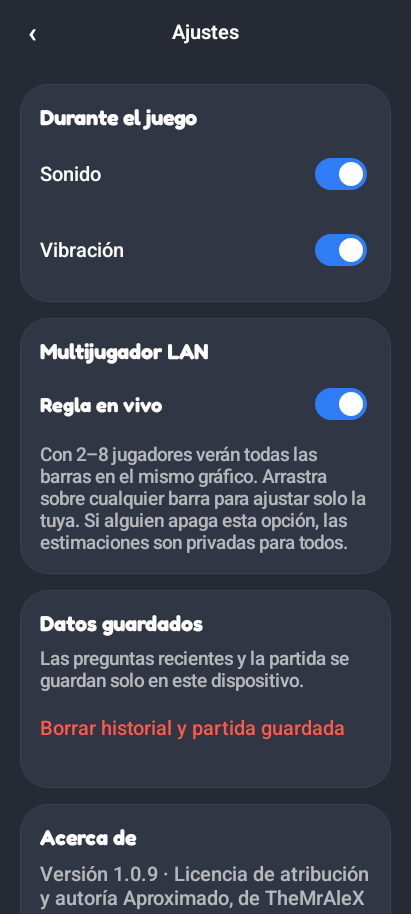
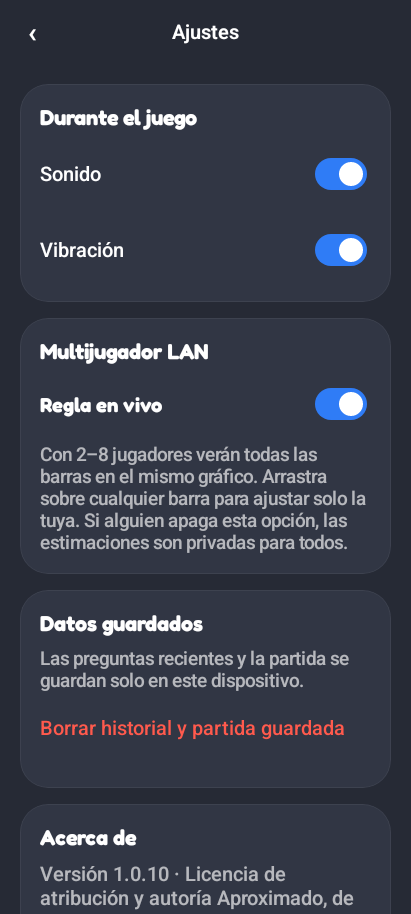
feat(release): build ARMv7 and universal APKs

Changed region(s): [[0.0876, 0.9497, 0.9051, 1.0]]

diff --git a/scripts/build_local_release.py b/scripts/build_local_release.py
@@ -11,6 +11,7 @@ import secrets
 import shutil
 import subprocess
 import tempfile
+import zipfile
 
 ROOT=Path(__file__).resolve().parents[1]
 def main():
@@ -30,12 +31,21 @@ def main():
         subprocess.run(['./gradlew',':core:test',':app:lintRelease',':app:assembleRelease','--console=plain'],cwd=ROOT,env=environment,check=True)
         output=ROOT/'dist';output.mkdir(exist_ok=True)
         version=re.search(r'versionName\s*=\s*"([^"]+)"',(ROOT/'app/build.gradle.kts').read_text()).group(1)
-        apk=output/f'Aproximado-v{version}-arm64-v8a.apk'
-        shutil.copyfile(ROOT/'app/build/outputs/apk/release/app-release.apk',apk)
+        variants={
+            'arm64-v8a': ('app-arm64-v8a-release.apk', {'arm64-v8a'}),
+            'armeabi-v7a': ('app-armeabi-v7a-release.apk', {'armeabi-v7a'}),
+            'universal': ('app-universal-release.apk', {'armeabi-v7a','arm64-v8a','x86','x86_64'}),
+        }
         sdk=environment.get('ANDROID_HOME') or environment.get('ANDROID_SDK_ROOT')
-        if sdk:
-            subprocess.run([str(Path(sdk)/'build-tools/35.0.0/apksigner'),'verify','--verbose',str(apk)],env=environment,check=True)
-        digest=hashlib.sha256(apk.read_bytes()).hexdigest()
-        apk.with_suffix('.apk.sha256').write_text(f'{digest}  {apk.name}\n')
-        print(apk,flush=True)
+        for label,(generated,expected_abis) in variants.items():
+            apk=output/f'Aproximado-v{version}-{label}.apk'
+            shutil.copyfile(ROOT/'app/build/outputs/apk/release'/generated,apk)
+            with zipfile.ZipFile(apk) as archive:
+                actual_abis={name.split('/')[1] for name in archive.namelist() if name.startswith('lib/')}
+            assert actual_abis == expected_abis, f'{label}: ABI inesperadas: {actual_abis}'
+            if sdk:
+                subprocess.run([str(Path(sdk)/'build-tools/35.0.0/apksigner'),'verify','--verbose',str(apk)],env=environment,check=True)
+            digest=hashlib.sha256(apk.read_bytes()).hexdigest()
+            apk.with_suffix('.apk.sha256').write_text(f'{digest}  {apk.name}\n')
+            print(apk,flush=True)
 if __name__=='__main__':main()
